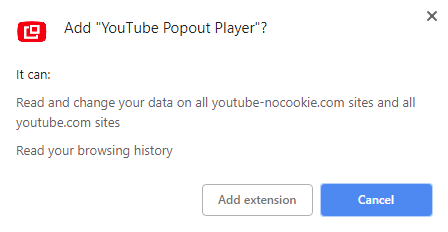
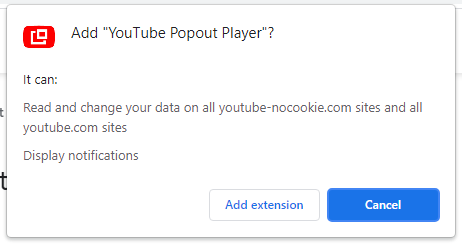
update permissions documentation and screenshots

Changed region(s): [[0.0, 0.0, 1.0, 0.9957]]

diff --git a/docs/pages/permissions.html b/docs/pages/permissions.html
@@ -22,33 +22,34 @@ order: 2
             <p>These are the required browser permissions for YouTube Popout Player.</p>
         </div>
 
-        <div class="card-body center">
+        <div class="card-body">
             <div class="row">
                 <div class="col s12 xl6">
-                    <h6>Permission Request in Google Chrome</h6>
-                    <img class="responsive-img z-depth-1" src="{{ '/screenshots/Permissions-Chrome-Cropped.png' | relative_url }}" alt="Popout Player Required Permissions Request (in Chrome) Cropped Screenshot"/>
+                    <ul class="collection with-header">
+                        <li class="collection-header grey lighten-4"><h6>Permissions Requested in <a href="#modal-chrome-required-permissions-screenshot" class="red-text modal-trigger tooltipped" data-tooltip="View Screenshot">Google Chrome <i class="material-icons tiny">image</i></a> &amp; <a href="#modal-edge-required-permissions-screenshot" class="red-text modal-trigger tooltipped" data-tooltip="View Screenshot">Microsoft Edge <i class="material-icons tiny">image</i></a></h6></li>
+                        <li class="collection-item"><i class="material-icons tiny">check</i> Read and change your data on all youtube-nocookie.com sites and all youtube.com sites</li>
+                        <li class="collection-item"><i class="material-icons tiny">check</i> Display notifications</li>
+                    </ul>
                 </div>
                 <div class="col s12 hide-on-extra-large-only">
                     <p class="divider"></p>
                 </div>
                 <div class="col s12 xl6">
-                        <h6>Permission Request in Mozilla Firefox</h6>
-                    <img class="responsive-img z-depth-1" src="{{ '/screenshots/Permissions-Firefox-Cropped.png' | relative_url }}" alt="Popout Player Required Permissions Request (in Firefox) Cropped Screenshot"/>
+                    <ul class="collection with-header">
+                        <li class="collection-header grey lighten-4"><h6>Permissions Requested in <a href="#modal-firefox-required-permissions-screenshot" class="red-text modal-trigger tooltipped" data-tooltip="View Screenshot">Mozilla Firefox <i class="material-icons tiny">image</i></a></h6></li>
+                        <li class="collection-item"><i class="material-icons tiny">check</i> Access your data for sites in the youtube.com domain</li>
+                        <li class="collection-item"><i class="material-icons tiny">check</i> Access your data for sites in the youtube-nocookie.com domain</li>
+                        <li class="collection-item"><i class="material-icons tiny">check</i> Display notifications to you</li>
+                    </ul>
                 </div>
             </div>
         </div>
 
         <div class="card-body">
-            <dl>
-                <dt>Read and change your data on all youtube-nocookie.com sites and all youtube.com sites (<em>in Chrome</em>)</dt>
-                <span>&mdash; OR &mdash;</span>
-                <dt>Access your data for sites in the youtube.com domain (<em>in Firefox</em>)</dt>
-                <dt>Access your data for sites in the youtube-nocookie.com domain (<em>in Firefox</em>)</dt>
-                <dd>
-                    <p><strong>This extensions does not read (or collect) or modify any of your data at all.</strong></p>
-                    <p>This permission is used to add the controls (button and context menu) and listen for the keyboard shortcut, which are used to open the popout player, on YouTube videos. This permission is requested for both the primary <code class="red-text">youtube.com</code> domain and the alternate <code class="red-text">youtube-nocookie.com</code> domain (which some sites use to embed YouTube videos), as these are the domains where YouTube videos are hosted.</p>
-                </dd>
-            </dl>
+            <p><strong>Read/Access Data: This extensions does not read (or collect) or modify any of your data at all.</strong></p>
+            <p>This permission is used to add the controls (button and context menu) and listen for the keyboard shortcut, which are used to open the popout player, on YouTube videos. This permission is requested for both the primary <code class="red-text">youtube.com</code> domain and the alternate <code class="red-text">youtube-nocookie.com</code> domain (which is Google's attempt to provide a version of YouTube that has fewer tracking cookies), as these are the domains where YouTube videos are hosted.</p>
+            <p><strong>Notifications: This extensions only shows a notification if the popout player cannot be opened at all.</strong></p>
+            <p>In the extremely unlikely event that the popout player cannot be opened at all, a notification is displayed so that you know it tried but failed. Otherwise, it would seem like nothing happened at all, which can be confusing.</p>
         </div>
     </div>
 
@@ -56,42 +57,55 @@ order: 2
 
 
 <section id="optional" class="section scrollspy">
-    <h4 class="hide">Optional Permissions</h4>
+    <h4 class="hide">Additional/Optional Permissions</h4>
 
     <div class="card white">
         <div class="card-content">
-            <span class="card-title red-text"><strong>Optional Permissions</strong></span>
+            <span class="card-title red-text"><strong>Additional/Optional Permissions</strong></span>
             <p>These are the additional optional browser permissions for YouTube Popout Player. These permissions are requested when needed, and the requests can be denied if you prefer not to grant the requested permissions. Note that denying requests for these permissions will disable the corresponding functionality (as listed below).</p>
         </div>
 
-        <div class="card-body center">
+        <div class="card-body">
             <div class="row">
                 <div class="col s12 xl6">
-                    <h6>Permission Request in Google Chrome</h6>
-                    <img class="responsive-img z-depth-1" src="{{ '/screenshots/Optional-Permissions-Request-Tabs-Chrome.png' | relative_url }}" alt="Popout Player Optional Permissions Request (in Chrome) Cropped Screenshot"/>
+                    <ul class="collection with-header">
+                        <li class="collection-header grey lighten-4"><h6>Optional Tabs Permission Requested in <a href="#modal-chrome-optional-tabs-permissions-screenshot" class="red-text modal-trigger tooltipped" data-tooltip="View Screenshot">Google Chrome <i class="material-icons tiny">image</i></a> &amp; <a href="#modal-edge-optional-tabs-permissions-screenshot" class="red-text modal-trigger tooltipped" data-tooltip="View Screenshot">Microsoft Edge <i class="material-icons tiny">image</i></a></h6></li>
+                        <li class="collection-item"><i class="material-icons tiny">check</i> Read your browsing history</li>
+                    </ul>
                 </div>
                 <div class="col s12 hide-on-extra-large-only">
                     <p class="divider"></p>
                 </div>
                 <div class="col s12 xl6">
-                    <h6>Permission Request in Mozilla Firefox</h6>
-                    <img class="responsive-img z-depth-1" src="{{ '/screenshots/Optional-Permissions-Request-Tabs-Firefox.png' | relative_url }}" alt="Popout Player Optional Permissions Request (in Firefox) Cropped Screenshot"/>
+                    <ul class="collection with-header">
+                        <li class="collection-header grey lighten-4"><h6>Optional Tabs Permission Requested in <a href="#modal-firefox-optional-tabs-permissions-screenshot" class="red-text modal-trigger tooltipped" data-tooltip="View Screenshot">Mozilla Firefox <i class="material-icons tiny">image</i></a></h6></li>
+                        <li class="collection-item"><i class="material-icons tiny">check</i> Access browser tabs</li>
+                    </ul>
                 </div>
             </div>
         </div>
 
         <div class="card-body">
-            <dl>
-                <dt>Read your browsing history (<em>in Chrome</em>)</dt>
-                <span>&mdash; OR &mdash;</span>
-                <dt>Access browser tabs (<em>in Firefox</em>)</dt>
-                <dd>
-                    <p><strong>This extension does not read (or collect) your browsing history at all.</strong></p>
-                    <p>The Tabs permission is used to close the original window/tab (when configured via the "Close Original Window/Tab" option) after opening the popout player.</p>
-                    <p><strong>Denying this permission</strong> will disable the use of the <a class="red-text" href="{{ '/options#advanced' | relative_url }}">"Close Original Window/Tab" setting</a>.</p>
-                </dd>
-            </dl>
+            <p><strong>This extension does not read (or collect) your browsing history at all.</strong></p>
+            <p>The Tabs permission is used to close the original window/tab (when configured via the "Close Original Window/Tab" option) after opening the popout player.</p>
+            <p><strong>Denying this permission</strong> will disable the use of the <a class="red-text" href="{{ '/options#advanced' | relative_url }}">"Close Original Window/Tab" setting</a>.</p>
         </div>
     </div>
 
 </section>
+
+<!-- Modals with Screenshots -->
+{% assign required = site.data.screenshots | where:"type","permission-required" %}
+{% assign optional = site.data.screenshots | where:"type","permission-optional" %}
+{% assign screenshots = required | concat: optional %}
+{% for screenshot in screenshots %}
+<div id="modal-{{screenshot.name | slugify}}-screenshot" class="modal">
+    <div class="modal-content center white">
+        <img class="responsive-img" src="{{ screenshot.path | relative_url }}" alt="Popout Player {{screenshot.name}}" />
+        <p class="text-left"><em>Screenshots are taken from <strong>v4.0</strong> and <strong>v4.1</strong> and may not accurately represent current functionality.</em></p>
+    </div>
+    <div class="modal-footer">
+        <button class="btn red modal-close"><i class="material-icons left">close</i> Close</button>
+    </div>
+</div>
+{% endfor %}
